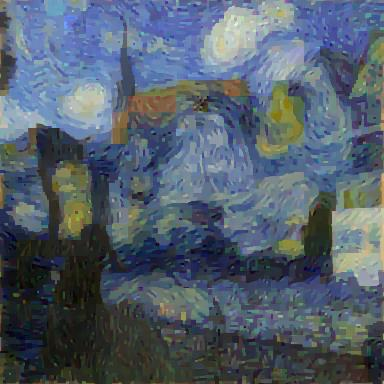
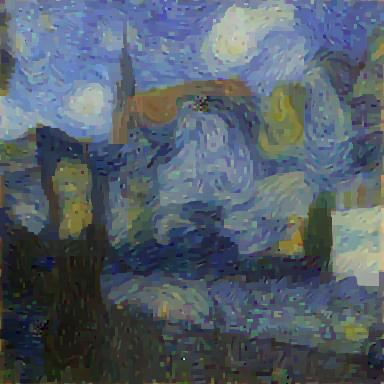
Adam -> LBFGS

diff --git a/stylize.py b/stylize.py
@@ -38,7 +38,8 @@ input_img = nn.Parameter(input_img)
 extractor = ViTFeatureExtractor(chosen_layers=[0, 2, 4, 7, 10]).to(device)
 
 # optimizer
-optimizer = optim.Adam([input_img], lr=5e-3)
+# optimizer = optim.Adam([input_img], lr=5e-3)
+optimizer = optim.LBFGS([input_img])
 
 print("Calculating targets...")
 with torch.no_grad():
@@ -48,7 +49,7 @@ with torch.no_grad():
     style_grams = {k: gram_matrix(v) for k, v in style_features.items() if k in ['block_0', 'block_2', 'block_4']}
     content_targets = {k: v for k, v in content_features.items() if k in ['block_7', 'block_10']}
 
-style_weight = 2
+style_weight = 8e-1
 content_weight = 1
 tv_weight = 1e-3
 
